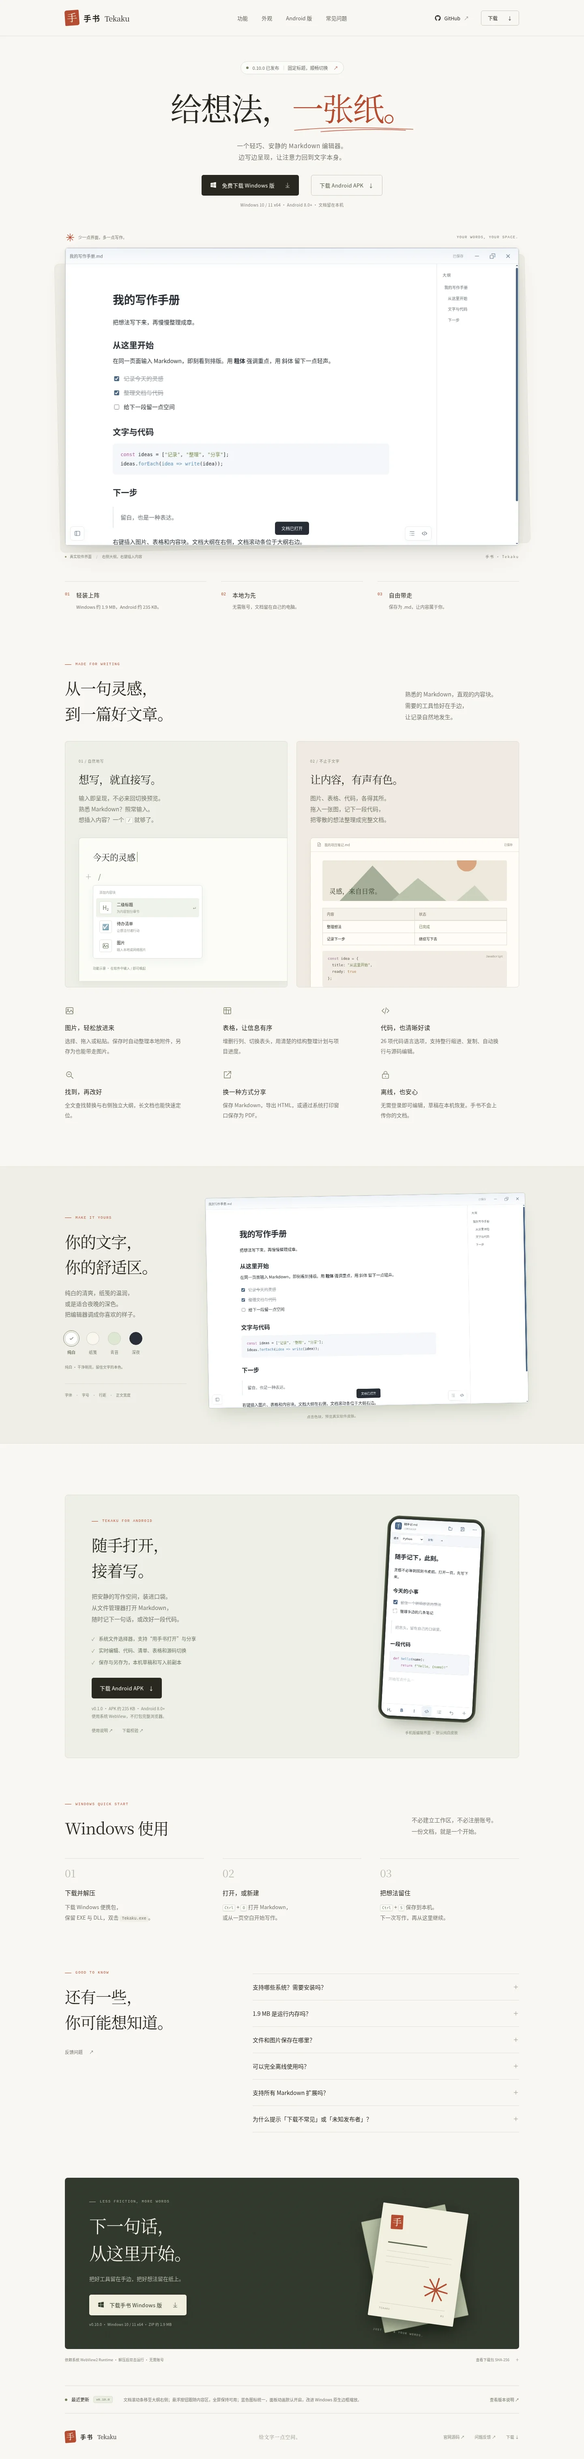
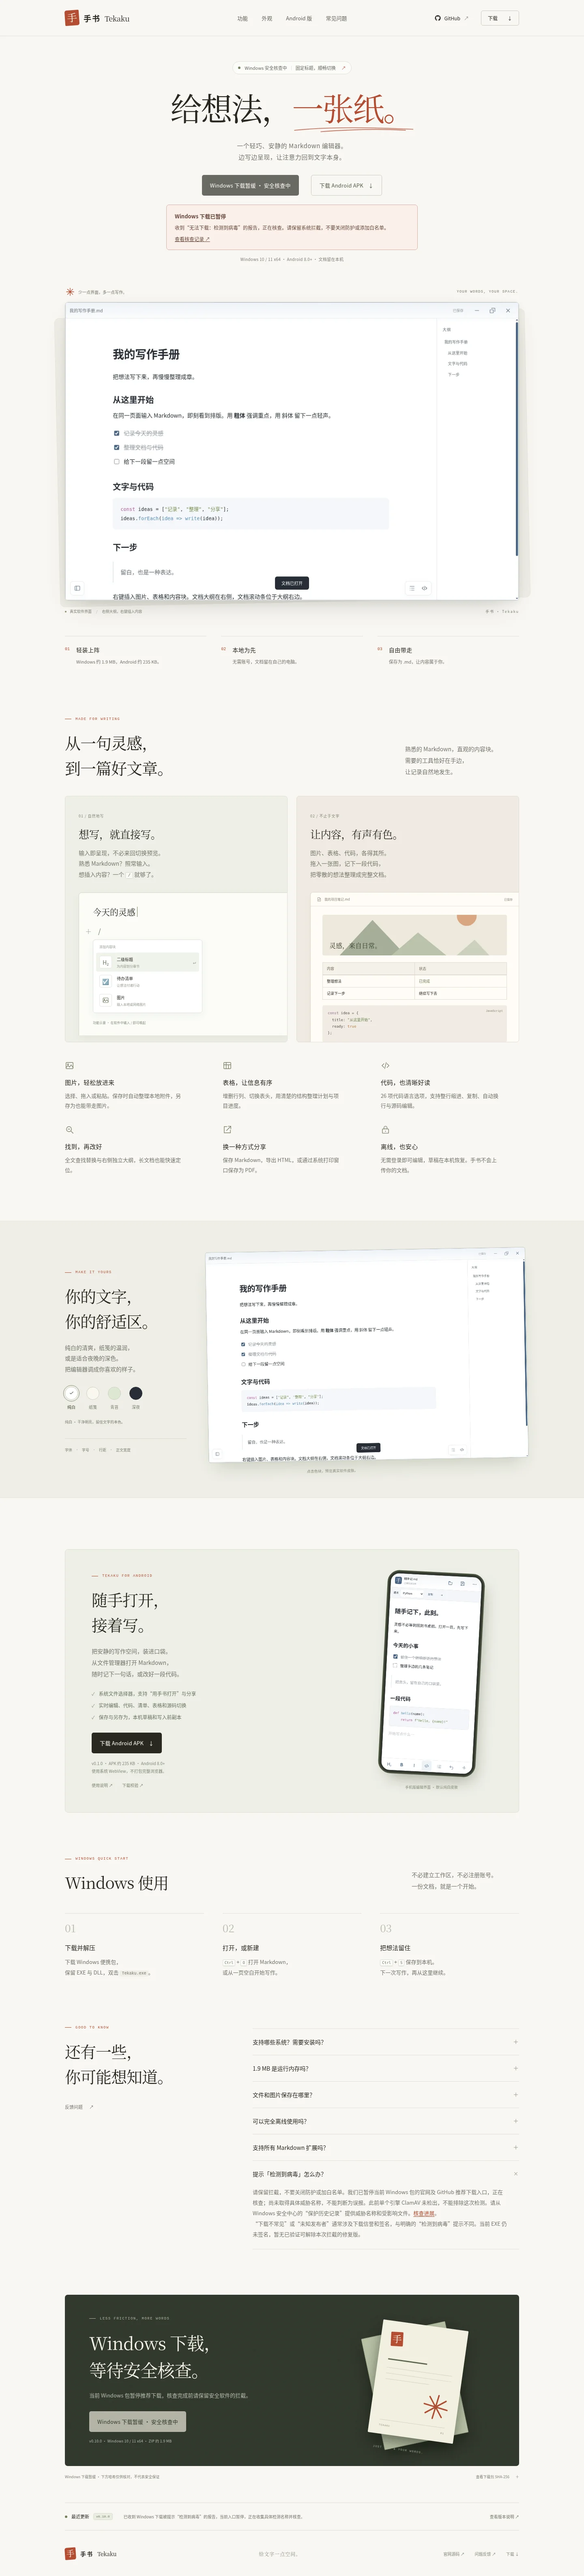
Pause Windows downloads while investigating antivirus interception report

diff --git a/index.html b/index.html
@@ -54,13 +54,14 @@
 
   <main id="main">
     <section class="hero container" aria-labelledby="hero-title">
-      <a class="release-pill" href="#release"><span class="release-dot" aria-hidden="true"></span><span>0.10.0 已发布</span><span class="pill-divider"></span><span>固定标题，顺畅切换</span><span aria-hidden="true">↗</span></a>
+      <a class="release-pill" href="#windows-security-notice"><span class="release-dot" aria-hidden="true"></span><span>Windows 安全核查中</span><span class="pill-divider"></span><span>固定标题，顺畅切换</span><span aria-hidden="true">↗</span></a>
       <h1 id="hero-title">给想法，<span class="hero-accent">一张纸。<svg viewBox="0 0 360 17" aria-hidden="true"><path d="M4 11C88 2 206 1 354 8M82 15c97-7 176-9 250-4"/></svg></span></h1>
       <p class="hero-description">一个轻巧、安静的 Markdown 编辑器。<br>边写边呈现，让注意力回到文字本身。</p>
       <div class="hero-actions">
-        <a class="button button-dark" href="https://github.com/Linkyyy/tekaku/raw/refs/heads/downloads/windows-v0.10.0/Tekaku-0.10.0-windows-x64.zip" data-download><svg aria-hidden="true" class="icon"><use href="#i-windows"/></svg>免费下载 Windows 版<svg class="icon button-arrow"><use href="#i-down"/></svg></a>
+        <button class="button button-dark" type="button" data-download disabled aria-describedby="windows-security-notice">Windows 下载暂缓 · 安全核查中</button>
         <a class="button button-light" data-android-download href="https://github.com/Linkyyy/tekaku/raw/refs/heads/downloads/android-v0.1.0/Tekaku-0.1.0-android.apk">下载 Android APK <span aria-hidden="true">↓</span></a>
       </div>
+      <aside id="windows-security-notice" class="security-notice" role="status"><strong>Windows 下载已暂停</strong><p>收到“无法下载：检测到病毒”的报告，正在核查。请保留系统拦截，不要关闭防护或添加白名单。</p><a href="https://github.com/Linkyyy/tekaku/blob/main/docs/SECURITY-ALERT-0.10.md" target="_blank" rel="noopener noreferrer">查看核查记录 ↗</a></aside>
       <p class="download-meta">Windows 10 / 11 x64 · Android 8.0+ · 文档留在本机</p>
 
       <figure class="hero-preview" id="editor-preview">
@@ -152,19 +153,19 @@
         <details><summary>文件和图片保存在哪里？<svg aria-hidden="true" class="icon"><use href="#i-plus"/></svg></summary><div class="faq-answer"><p>Windows 的 Markdown 文件保存在你选择的位置，新插入图片在保存时写入同目录的「文档名.assets」文件夹。移动或分享文档时，请一起带上这个文件夹。Windows 草稿和设置保存在 %APPDATA%\Tekaku。Android 图片内嵌于 Markdown，草稿位于应用私有目录。草稿不能代替保存原文件。</p></div></details>
         <details><summary>可以完全离线使用吗？<svg aria-hidden="true" class="icon"><use href="#i-plus"/></svg></summary><div class="faq-answer"><p>安装好系统 WebView2 后，编辑、保存、本地图片和 HTML 导出均可离线使用，无需登录。手书不会上传文档。插入网络图片或主动打开网页链接时，会访问对应的网络地址。</p></div></details>
         <details><summary>支持所有 Markdown 扩展吗？<svg aria-hidden="true" class="icon"><use href="#i-plus"/></svg></summary><div class="faq-answer"><p>支持标题、列表、待办、引用、链接、图片、GFM 表格、文字高亮和代码块等常用内容。暂未提供公式排版、Mermaid 渲染、脚注及 YAML front matter 专用编辑。导入导出会规范化 Markdown，复杂文档建议先另存为。Windows 文档/图片上限分别为 8/5 MiB；Android 分别为 2/1 MiB。</p></div></details>
-        <details><summary>为什么提示「下载不常见」或「未知发布者」？<svg aria-hidden="true" class="icon"><use href="#i-plus"/></svg></summary><div class="faq-answer"><p>当前 EXE 未签名，下载信誉也需要积累，因此浏览器或 Windows 可能显示这类提示；它不等同于已检出病毒。0.10.0 已完成 ClamAV 扫描并未检出，但没有 Windows Defender 实机检测结论。可查看 <a href="https://github.com/Linkyyy/tekaku/blob/downloads/windows-v0.10.0/RELEASE-CHECK.md" target="_blank" rel="noopener noreferrer">安全检查记录</a>，并核对下载哈希。</p></div></details>
+        <details open><summary>提示「检测到病毒」怎么办？<svg aria-hidden="true" class="icon"><use href="#i-plus"/></svg></summary><div class="faq-answer"><p>请保留拦截，不要关闭防护或加白名单。我们已暂停当前 Windows 包的官网及 GitHub 推荐下载入口，正在核查；尚未取得具体威胁名称，不能判断为误报。此前单个引擎 ClamAV 未检出，不能排除这次检测。请从 Windows 安全中心的“保护历史记录”提供威胁名称和受影响文件。<a href="https://github.com/Linkyyy/tekaku/blob/main/docs/SECURITY-ALERT-0.10.md" target="_blank" rel="noopener noreferrer">核查进展</a>。</p><p>“下载不常见”或“未知发布者”通常涉及下载信誉和签名，与明确的“检测到病毒”提示不同。当前 EXE 仍未签名，暂无已验证可解除本次拦截的修复版。</p></div></details>
       </div>
     </section>
 
     <section class="download-section container" id="download" aria-labelledby="download-title">
       <div class="download-panel">
-        <div class="download-copy"><p class="eyebrow"><span></span> LESS FRICTION, MORE WORDS</p><h2 id="download-title">下一句话，<br>从这里开始。</h2><p>把好工具留在手边，把好想法留在纸上。</p><a class="button button-paper" href="https://github.com/Linkyyy/tekaku/raw/refs/heads/downloads/windows-v0.10.0/Tekaku-0.10.0-windows-x64.zip" data-download><svg aria-hidden="true" class="icon"><use href="#i-windows"/></svg>下载手书 Windows 版<svg class="icon button-arrow"><use href="#i-down"/></svg></a><span class="download-panel-meta">v0.10.0 · Windows 10 / 11 x64 · ZIP 约 1.9 MB</span></div>
+        <div class="download-copy"><p class="eyebrow"><span></span> LESS FRICTION, MORE WORDS</p><h2 id="download-title">Windows 下载，<br>等待安全核查。</h2><p>当前 Windows 包暂停推荐下载，核查完成前请保留安全软件的拦截。</p><button class="button button-paper" type="button" data-download disabled aria-describedby="windows-security-notice">Windows 下载暂缓 · 安全核查中</button><span class="download-panel-meta">v0.10.0 · Windows 10 / 11 x64 · ZIP 约 1.9 MB</span></div>
         <div class="download-art" aria-hidden="true"><div class="art-page page-back"></div><div class="art-page page-front"><span class="art-seal">手</span><span class="art-rule art-rule-title"></span><span class="art-rule"></span><span class="art-rule"></span><span class="art-rule art-rule-short"></span><span class="art-asterisk"><svg aria-hidden="true" class="icon"><use href="#i-asterisk"/></svg></span><span class="art-page-footer">TEKAKU<span>01</span></span></div><span class="art-caption">JUST YOU & YOUR WORDS.</span></div>
       </div>
-      <div class="download-details"><p>依赖系统 WebView2 Runtime · 解压后双击运行 · 无需账号</p><details class="checksum-details"><summary>查看下载包 SHA-256 <span aria-hidden="true">＋</span></summary><div class="checksum-content"><code id="checksum">66320d641b0d9b42e4488136563465f35ee56f115d237f09b6c2ba4e52073008</code><button id="copy-checksum" type="button">复制</button><span id="copy-status" class="sr-only" role="status"></span></div></details></div>
+      <div class="download-details"><p>Windows 下载暂缓 · 下方哈希仅供核对，不代表安全保证</p><details class="checksum-details"><summary>查看下载包 SHA-256 <span aria-hidden="true">＋</span></summary><div class="checksum-content"><code id="checksum">66320d641b0d9b42e4488136563465f35ee56f115d237f09b6c2ba4e52073008</code><button id="copy-checksum" type="button">复制</button><span id="copy-status" class="sr-only" role="status"></span></div></details></div>
     </section>
 
-    <section class="release-section container" id="release" aria-labelledby="release-title"><div><span class="release-dot" aria-hidden="true"></span><h2 id="release-title">最近更新</h2><span class="version-label">v0.10.0</span></div><p>文档滚动条移至大纲右侧；悬浮按钮跟随内容区，全屏保持可用；蓝色图标统一，面板动画默认开启，改进 Windows 原生边框缩放。</p><a href="https://github.com/Linkyyy/tekaku/tree/downloads/windows-v0.10.0" target="_blank" rel="noopener noreferrer">查看版本说明 <span aria-hidden="true">↗</span></a></section>
+    <section class="release-section container" id="release" aria-labelledby="release-title"><div><span class="release-dot" aria-hidden="true"></span><h2 id="release-title">最近更新</h2><span class="version-label">v0.10.0</span></div><p>已收到 Windows 下载被提示“检测到病毒”的报告，当前入口暂停，正在收集具体检测名称并核查。</p><a href="https://github.com/Linkyyy/tekaku/tree/downloads/windows-v0.10.0" target="_blank" rel="noopener noreferrer">查看版本说明 <span aria-hidden="true">↗</span></a></section>
   </main>
 
   <footer class="site-footer container"><a class="brand" href="#" aria-label="返回手书首页"><span class="brand-seal" aria-hidden="true">手</span><span class="brand-name">手书<span class="brand-english">Tekaku</span></span></a><p>给文字一点空间。</p><div><a href="https://github.com/Linkyyy/tekaku/tree/gh-pages" target="_blank" rel="noopener noreferrer">官网源码 ↗</a><a href="https://github.com/Linkyyy/tekaku/issues" target="_blank" rel="noopener noreferrer">问题反馈 ↗</a><a href="#download">下载 ↓</a></div></footer>

diff --git a/style.css b/style.css
@@ -16,3 +16,5 @@
 @media print{.site-header{position:static}.hero-preview:before,.download-art,.skip-link{display:none}body{background:white}.section-space,.download-section,.faq-section{padding-top:35px}.appearance-section{margin-top:35px}.screenshot-frame{box-shadow:none}a{color:inherit}.download-panel{break-inside:avoid}.site-footer{padding-block:20px}}
 
 .button-light{border:1px solid #c8cbbd;color:#536046;background:transparent}.button-light:hover{background:#eeeee5}.android-panel{display:grid;grid-template-columns:minmax(0,1fr) 300px;align-items:center;gap:70px;padding:55px 65px;background:#eeefe7;border:1px solid #dce0d1;border-radius:8px;overflow:hidden}.android-description{font-size:14px;line-height:2;color:var(--muted);margin-top:20px}.android-features{padding:0;list-style:none;display:grid;gap:12px;font-size:12px;color:#68745d;margin:26px 0 30px}.android-features li:before{content:'✓';color:#83916c;font-size:11px;margin-right:10px}.android-meta{font-size:10px;line-height:1.9;color:#808874;margin-top:15px}.android-links{display:flex;gap:23px;font-size:10px;color:#7d856f;margin-top:18px}.android-links a:hover{color:var(--accent)}.android-phone{width:240px;padding:5px;background:#30362d;border:3px solid #4b5442;border-radius:30px;box-shadow:10px 20px 40px -15px #39432c70;transform:rotate(3deg);margin:auto}.android-phone img{width:100%;border-radius:21px}.android-preview figcaption{margin-top:23px;text-align:center;font-size:9px;color:#89927c}.android-section{scroll-margin-top:90px}@media(max-width:900px){.android-panel{padding:40px;gap:25px;grid-template-columns:minmax(0,1fr) 235px}.android-phone{width:215px}.android-description{font-size:12px}.android-features{font-size:11px}}@media(max-width:600px){.android-panel{grid-template-columns:1fr;padding:30px 25px;gap:35px}.android-copy h2{font-size:31px}.android-description{font-size:12px;line-height:1.9;margin-top:17px}.android-features{font-size:11px;line-height:1.8;margin:23px 0}.android-phone{width:220px}.android-meta{font-size:9px}.android-links{font-size:10px}.hero-actions .button-light{min-width:228px;order:-1}.android-section{padding-top:62px}}@media print{.android-panel{break-inside:avoid}.android-phone{transform:none;box-shadow:none}}
+
+.security-notice{max-width:620px;margin:22px auto 0;padding:16px 20px;border:1px solid #d3aea3;border-radius:7px;background:#faf0e9;text-align:left;font-size:12px;line-height:1.8;color:#66463a}.security-notice strong{font-size:13px}.security-notice p{margin:6px 0}.security-notice a{text-decoration:underline}.button:disabled{cursor:not-allowed;opacity:.68;transform:none;box-shadow:none}button.button{font-family:inherit;border:0}

diff --git a/README.md b/README.md
@@ -2,6 +2,8 @@
 
 手书 Windows 与 Android 编辑器的中文产品官网。
 
+**Windows 下载已暂停：** 收到“检测到病毒”的下载拦截报告，尚未确认具体威胁名称与涉事版本。当前 Windows 0.10.0 推荐入口已停用；保留原始文件供核查，不应绕过安全软件拦截。见 [核查记录](https://github.com/Linkyyy/tekaku/blob/main/docs/SECURITY-ALERT-0.10.md)。
+
 纯静态 HTML / CSS / JavaScript，**没有构建步骤、运行依赖、外部字体、追踪脚本或账号功能**。图片均随站点提供；四种编辑器皮肤预览来自实际软件界面的浏览器渲染截图。界面功能示意已明确标注。
 
 ## 预览
@@ -42,7 +44,7 @@ python3 -m http.server 8080
 
 ## 下载与维护
 
-- [Windows v0.10.0 便携包（约 1.9 MB）](https://github.com/Linkyyy/tekaku/raw/refs/heads/downloads/windows-v0.10.0/Tekaku-0.10.0-windows-x64.zip)
+- Windows 0.10.0：安全核查中，下载入口暂缓。
 - [版本说明](https://github.com/Linkyyy/tekaku/tree/downloads/windows-v0.10.0)
[1 lines of base64/hex data omitted]
 
@@ -50,9 +52,9 @@ python3 -m http.server 8080
 
 桌面端使用系统 WebView2，支持 Windows 10 / 11 x64。1.9 MB 是 ZIP 体积，非内存占用；官网 FAQ 已注明依赖、图片附件移动方式、未签名和 Markdown 支持范围。
 
-## 0.10.0 安全检查
+## 当前安全核查（未解决）
 
-用户反馈的“下载不常见”属于下载信誉提示。EXE 仍未签名，不能承诺提示消失。扫描和校验记录见 [安全检查说明](https://github.com/Linkyyy/tekaku/blob/downloads/windows-v0.10.0/SECURITY-CHECK.md)。[应用源码](https://github.com/Linkyyy/tekaku/tree/main)可复核。下载包应完整解压，保留 EXE 和 WebView2Loader.dll 在同一目录。
+新截图明确显示“检测到病毒”，不能按此前“下载不常见”的信誉提示处理。当前入口暂停，尚待具体威胁名称。EXE 仍未签名，不能承诺提示消失。扫描和校验记录见 [安全检查说明](https://github.com/Linkyyy/tekaku/blob/downloads/windows-v0.10.0/SECURITY-CHECK.md)。[应用源码](https://github.com/Linkyyy/tekaku/tree/main)可复核。下载包应完整解压，保留 EXE 和 WebView2Loader.dll 在同一目录。
 
 ## Android 手机版
 
